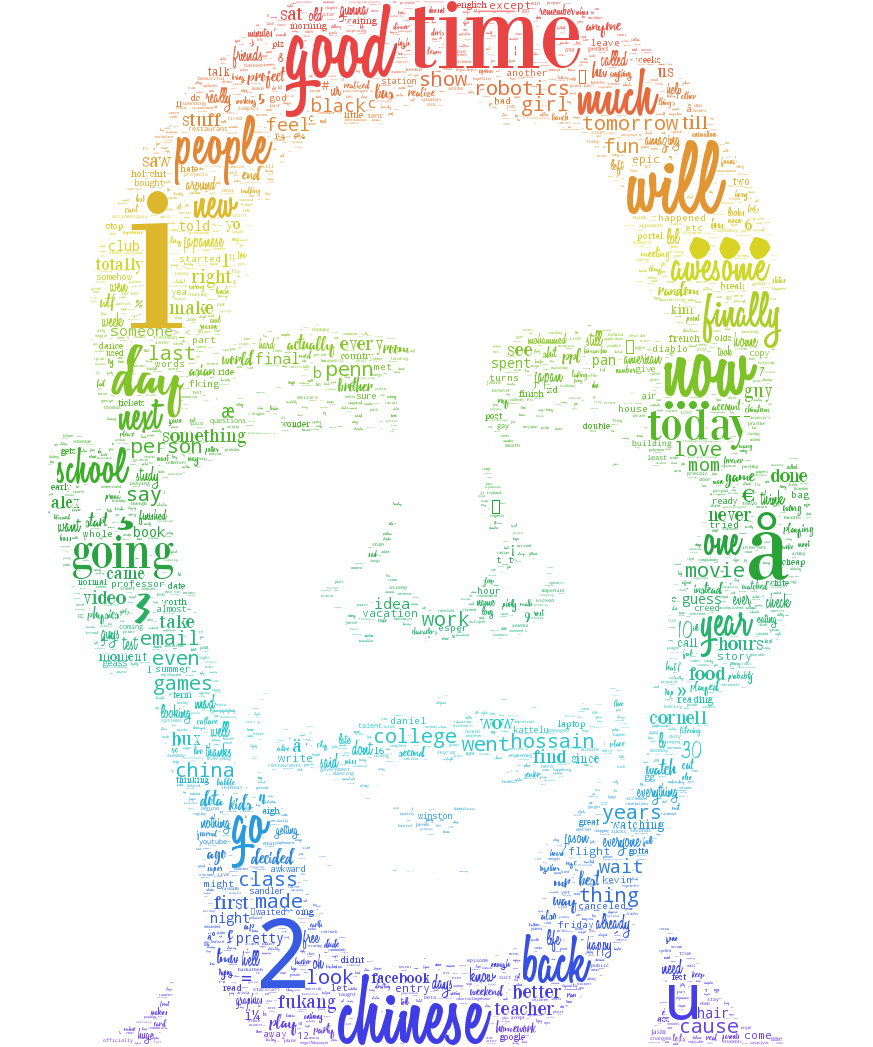
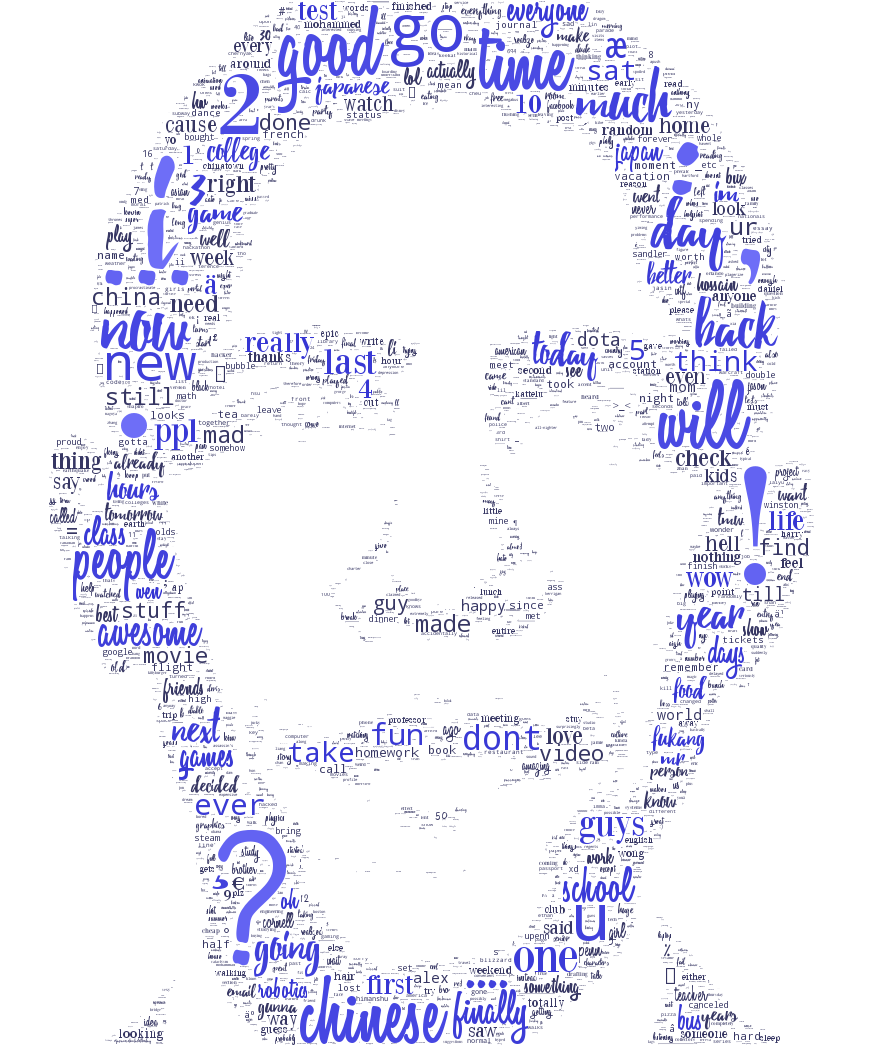
prepped for alpha

diff --git a/WordPortrait/wordportrait.py b/WordPortrait/wordportrait.py
@@ -65,7 +65,7 @@ class IntegralOccupancyMap(object):
 
 def random_color_func(word=None, font_size=None, position=None,
                       orientation=None, font_path=None, random_state=None,
-                      width=None, height=None):
+                      width=None, height=None, ocean=None):
     """Random hue color generation.
 
     Default coloring method. This just picks a random hue with value 80% and
@@ -83,21 +83,10 @@ def random_color_func(word=None, font_size=None, position=None,
         random_state = Random()
     return "hsl(%d, 80%%, 50%%)" % random_state.randint(0, 255)
 
-def gradient_color_func2(word=None, font_size=None, position=None,
-                      orientation=None, font_path=None, random_state=None,
-                      width=None, height=None):
-
-    # --- diagonal ---
-    hue = (position[0] + position[1]) * 260 / (width + height)
-    sat = abs(position[0] + position[1] - ((width + height) / 2)) * 20 / ((width + height) / 2) + 60 
-    lit = abs(position[0] + position[1] - ((width + height) / 2)) * 20 / ((width + height) / 2) + 40 
-
-
-    return "hsl(%d, %d%%, %d%%)" % (hue, sat,lit)
 
 def gradient_color_func(word=None, font_size=None, position=None,
                       orientation=None, font_path=None, random_state=None,
-                      width=None, height=None):
+                      width=None, height=None, ocean=None):
     """location based hue color generation.
 
     Custom coloring based on position of the word. 
@@ -106,7 +95,7 @@ def gradient_color_func(word=None, font_size=None, position=None,
 
     Parameters
     ----------
-    word, font_size, orientation : ignored.
+    word, font_size, orientation, ocean : ignored.
 
     position, width, height : used to calculate color
 
@@ -115,21 +104,21 @@ def gradient_color_func(word=None, font_size=None, position=None,
 
     """
     # --- single color based on font frequency ---
-    #hue = 240
-    #sat = 30
-    #lit = 30
-    #if font_size > 25 : 
-    #    sat += font_size * 30 / 200 + 30
-    #    lit += font_size * 20 / 200 + 20
+    hue = 240
+    sat = 30
+    lit = 30
+    if font_size > 25 : 
+        sat += font_size * 30 / 200 + 30
+        lit += font_size * 20 / 200 + 20
 
 
     #sat = 30 + (font_size * 30 / 200)
     #lit = 30 + (font_size * 40 / 200)
 
     # --- vertical ---
-    hue = position[0] * 260 / height
-    sat = abs(position[0] - (height / 2)) * 20 / (height / 2) + 60 
-    lit = abs(position[0] - (height / 2)) * 20 / (height / 2) + 40 
+    # hue = position[0] * 260 / height
+    # sat = abs(position[0] - (height / 2)) * 20 / (height / 2) + 60 
+    # lit = abs(position[0] - (height / 2)) * 20 / (height / 2) + 40 
 
     # --- horizontal ---
     #hue = position[1] * 260 / width 
@@ -137,6 +126,66 @@ def gradient_color_func(word=None, font_size=None, position=None,
     # --- diagonal ---
     #hue = (position[0] + position[1]) * 260 / (width + height)
     #sat = abs(position[0] + position[1] - ((width + height) / 2)) * 20 / ((width + height) / 2) + 70 
+
+    return "hsl(%d, %d%%, %d%%)" % (hue, sat,lit)
+
+
+# function used to color words based on OCEAN scores
+def ocean_color_func(word=None, font_size=None, position=None,
+                      orientation=None, font_path=None, random_state=None,
+                      width=None, height=None, ocean = None):
+    # red 0, green: 137
+    # orange red 20, cyan 175
+    # orange 36, light blue - 206
+    # yellow 58, dark blue 265
+    # dark green 108, magenta 297
+
+    if random_state is None:
+        random_state = Random()
+
+    # if all 0, then random
+    if ocean[0] == 0 and ocean[1] == 0 and ocean[2] == 0 and ocean[3] == 0 and ocean[4] == 0:
+        hue = random_state.randint(0, 359)
+    else:
+        abs_ocean = (abs(ocean[0]), abs(ocean[1]), abs(ocean[2]), abs(ocean[3]), abs(ocean[4]))
+        max_value = max(abs_ocean)
+        max_index = abs_ocean.index(max_value)
+        max_value = ocean[max_index]
+
+        if max_index == 0: # ope. inventive/curious vs. consistent/cautious
+            if max_value > 0:
+                hue = 58 # yellow
+            else:
+                hue = 265 # darkblue
+        elif max_index == 1: # con. efficient/organized vs. easy-going/careless
+            if max_value > 0:
+                hue = 297 # magenta
+            else:
+                hue = 108 # dark green
+        elif max_index == 2: # ext. outgoing/energetic vs. solitary/reserved
+            if max_value > 0:
+                hue = 36 # orange
+            else:
+                hue = 206 # light blue
+        elif max_index == 3: # agr. friendly/compassionate vs. analytical/detached
+            if max_value > 0:
+                hue = 20 # orange red
+            else:
+                hue = 175 # cyan
+        elif max_index == 4: # neu. sensitive/nervous vs. secure/confident
+            if max_value > 0:
+                hue = 0 # red
+            else:
+                hue = 137 # green
+    
+    sat = abs(position[0] - (height / 2)) * 20 / (height / 2) + 60 
+    lit = abs(position[0] - (height / 2)) * 20 / (height / 2) + 40 
+
+    # sat = 30
+    # lit = 30
+    # if font_size > 25 : 
+    #    sat += font_size * 30 / 200 + 30
+    #    lit += font_size * 20 / 200 + 20
 
     return "hsl(%d, %d%%, %d%%)" % (hue, sat,lit)
 
@@ -153,7 +202,7 @@ def get_single_color_func(color):
 
     def single_color_func(word=None, font_size=None, position=None,
                           orientation=None, font_path=None, random_state=None,
-                          width=None, height=None):
+                          width=None, height=None, ocean=None):
         """Random color generation.
 
         Additional coloring method. It picks a random value with hue and
@@ -237,6 +286,12 @@ class WordCloud(object):
         If you want to consider the word frequencies and not only their rank, relative_scaling
         around .5 often looks good.
 
+    upper_font_filter, lower_font_filter: float (default = 0)
+        thresholds for font size filtering. all fonts of size that's smaller than the 
+        upper_font_filter * max_font_size will be made into sizes smaller than the 
+        lower_font_filter * max_font_size
+
+
     Attributes
     ----------
     ``words_``: list of tuples (string, float)
@@ -260,7 +315,8 @@ class WordCloud(object):
                  ranks_only=None, prefer_horizontal=0.9, mask=None, scale=1,
                  color_func=gradient_color_func, max_words=200, min_font_size=4,
                  stopwords=None, random_state=None, background_color='black',
-                 max_font_size=None, font_step=1, mode="RGB", relative_scaling=0):
+                 max_font_size=None, font_step=1, mode="RGB", relative_scaling=0,
+                 upper_font_filter=None, lower_font_filter=None):
         if font_path is None:
             font_paths = FONT_PATHS
         else:
@@ -289,6 +345,8 @@ class WordCloud(object):
             raise ValueError("relative_scaling needs to be between 0 and 1, got %f."
                              % relative_scaling)
         self.relative_scaling = relative_scaling
+        self.upper_font_filter = upper_font_filter
+        self.lower_font_filter = lower_font_filter
         if ranks_only is not None:
             warnings.warn("ranks_only is deprecated and will be removed as"
                           " it had no effect. Look into relative_scaling.", DeprecationWarning)
@@ -315,7 +373,8 @@ class WordCloud(object):
         Parameters
         ----------
         frequencies : array of tuples
-            A tuple contains the word and its frequency.
+            A tuple contains the word, its frequency, 
+            and a tuple of its ocean scores in OCEAN order
 
         Returns
         -------
@@ -325,12 +384,26 @@ class WordCloud(object):
         # make sure frequencies are sorted and normalized
         frequencies = sorted(frequencies, key=item1, reverse=True)
         frequencies = frequencies[:self.max_words]
-        # largest entry will be 1
+        # largest entry will be 1 for freq and ocean scores 
         max_frequency = float(frequencies[0][1])
+        max_ope = max(frequencies, key=itemgetter(2))[2]
+        max_con = max(frequencies, key=itemgetter(3))[3]
+        max_ext = max(frequencies, key=itemgetter(4))[4]
+        max_agr = max(frequencies, key=itemgetter(5))[5]
+        max_neu = max(frequencies, key=itemgetter(6))[6]
 
-        frequencies = [(word, freq / max_frequency) for word, freq in frequencies]
+        frequencies = [(word, freq / max_frequency, 
+                        ope / max_ope, 
+                        con / max_con,
+                        ext / max_ext, 
+                        agr / max_agr, 
+                        neu / max_neu) 
+                    for word, freq, ope, con, ext, agr, neu in frequencies]
 
         self.words_ = frequencies
+
+        # variabled used to find actual largest font size
+        max_actual_size = 0
 
         # gives self a random state object for random generation
         if self.random_state is not None:
@@ -367,31 +440,37 @@ class WordCloud(object):
         img_grey = Image.new("L", (width, height))
         draw = ImageDraw.Draw(img_grey)
         img_array = np.asarray(img_grey)
-        font_sizes, positions, orientations, colors, font_indecies = [], [], [], [], []
+        font_sizes, positions, orientations, colors, font_indecies, oceans = [], [], [], [], [], []
 
         font_size = self.max_font_size
         last_freq = 1.
 
-        max_size = font_size
-        firstTime = True
-
         # start drawing grey image
-        for word, freq in frequencies:
+        for word, freq, ope, con, ext, agr, neu in frequencies:
             # select the font size
             rs = self.relative_scaling
             if rs != 0:
                 # relative size heuristics. might not want to mess with this?
                 font_size = int(round((rs * (freq / float(last_freq)) + (1 - rs)) * font_size))
+            # try to find a position
             while True:
-                # try to find a position
-
                 # randomize a font path to use
                 font_index = random_state.randint(0, len(self.font_paths) - 1)
-                # if font size is in the middle, make it smaller
-                if font_size < max_size / 5 and font_size > max_size / 10:
-                    font_size = max_size / 10
+                
+                # set max actual size
+                if len(font_sizes) > 0:
+                    max_actual_size = font_sizes[0]
+
+                # font size is in the middle, make it smaller
+                # this check will be ignored if max_actual_size is 0 aka not set yet
+                # this check will also always fail if upper_font_filter is 0 aka not set
+                if font_size < max_actual_size * self.upper_font_filter \
+                    and font_size > max_actual_size * self.lower_font_filter:
+                    font_size = max_actual_size * self.lower_font_filter
+
 
                 font = ImageFont.truetype(self.font_paths[font_index], font_size)
+
                 # transpose font optionally
                 if random_state.random() < self.prefer_horizontal:
                     orientation = None
@@ -421,13 +500,16 @@ class WordCloud(object):
             orientations.append(orientation)
             font_sizes.append(font_size)
             font_indecies.append(font_index)
+            ocean = (ope, con, ext, agr, neu)
+            oceans.append(ocean)
             colors.append(self.color_func(word, font_size=font_size,
                                           position=(x, y),
                                           orientation=orientation,
                                           random_state=random_state,
                                           font_path=self.font_paths,
                                           width = width,
-                                          height = height))
+                                          height = height,
+                                          ocean = ocean))
             # recompute integral image
             if self.mask is None:
                 img_array = np.asarray(img_grey)
@@ -437,11 +519,9 @@ class WordCloud(object):
             # the order of the cumsum's is important for speed ?!
             occupancy.update(img_array, x, y)
             last_freq = freq
-            if firstTime :
-                max_size = font_size
-                firstTime = False
 
-        self.layout_ = list(zip(frequencies, font_sizes, positions, orientations, colors, font_indecies))
+        print(len(oceans))
+        self.layout_ = list(zip(frequencies, font_sizes, positions, orientations, font_indecies, oceans, colors))
         return self
 
     def process_text(self, text):
@@ -548,7 +628,7 @@ class WordCloud(object):
         img = Image.new(self.mode, (int(width * self.scale), int(height * self.scale)),
                         self.background_color)
         draw = ImageDraw.Draw(img)
-        for (word, count), font_size, position, orientation, color, font_index in self.layout_:
+        for (word, count, o, c, e, a, n), font_size, position, orientation, font_index, _, color in self.layout_:
             font = ImageFont.truetype(self.font_paths[font_index], int(font_size * self.scale))
             transposed_font = ImageFont.TransposedFont(font,
                                                        orientation=orientation)
@@ -587,14 +667,15 @@ class WordCloud(object):
 
         if color_func is None:
             color_func = self.color_func
-        self.layout_ = [(word_freq, font_size, position, orientation, 
+        self.layout_ = [(word_freq, font_size, position, orientation, font_index, ocean,
                          color_func(word=word_freq[0], font_size=font_size,
                                     position=position, orientation=orientation,
                                     random_state=random_state, 
                                     font_path=self.font_paths[font_index],
-                                    width = width, height = height),
-                         font_index)
-                        for word_freq, font_size, position, orientation, _, font_index in self.layout_]
+                                    width = width, height = height,
+                                    ocean = ocean),
+                         )
+                        for word_freq, font_size, position, orientation, font_index, ocean, color in self.layout_]
         return self
 
     def to_file(self, filename):

diff --git a/WordPortrait/masked_test.py b/WordPortrait/masked_test.py
@@ -26,40 +26,43 @@ db = MySQLdb.connect(host="localhost", port=3306, user="root", passwd="localroot
 cursor = db.cursor()
 cursor.execute("SELECT * FROM ethan_status")
 
-# filter table into array of tuples 
+# filter table into lists of tuples 
 results = cursor.fetchall()
 words = []
-# filter out stopwords
+
 stopwords_lower = set(map(str.lower, STOPWORDS))
 for row in results:
 	word = row[2]
 	freq = row[3]
-	#ope = row[5]
-	#ext = row[6]
-	#neu = row[7]
-	#agr = row[8]
-	#con = row[9]
+	ope = row[5]
+	ext = row[6]
+	neu = row[7]
+	agr = row[8]
+	con = row[9]
+	# filter out stopwords
 	if word.lower() in stopwords_lower:
 		continue
 
-	tup = (word,freq)
+	tup = (word, freq, ope, con, ext, agr, neu)
 	words.append(tup)
 
+# sort words from largest freq to smallest
 words.sort(key=itemgetter(1), reverse=True)
 
-i = 0
-for row in words:
-	i = i + 1
-	print row
-	if i > 0:
-		break
+# i = 0
+# for row in words:
+# 	i = i + 1
+# 	print row
+# 	if i > 0:
+# 		break
 
 
 # read the mask image
 obama_mask = np.array(Image.open(path.join(d, "obama_threshold.jpg")))
 
 wc = WordCloud(background_color="white", max_words=3000, mask=obama_mask, prefer_horizontal=1,
-	min_font_size = 1,)
+	min_font_size = 1, upper_font_filter=float(1/5), lower_font_filter=float(1/10),
+	color_func = gradient_color_func)
 # generate word cloud
 wc.generate_from_frequencies(words)
 
